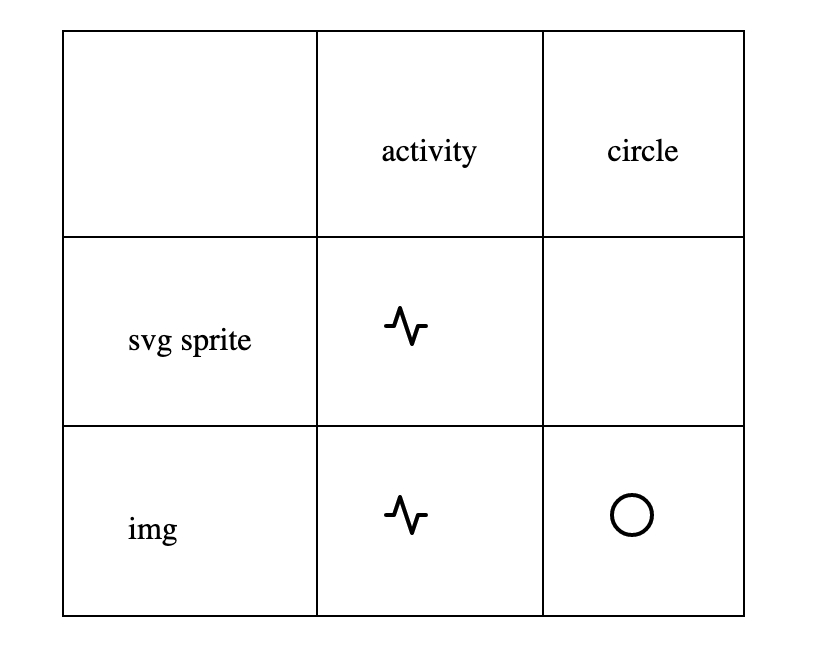
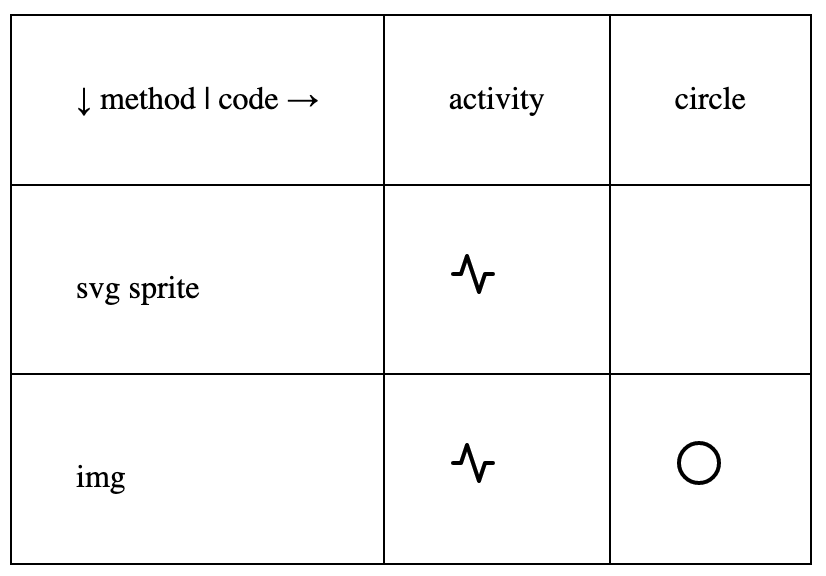
screenshot for comparison and system information

diff --git a/index.html b/index.html
@@ -25,7 +25,7 @@
 <body>
 	<table>
 		<tr>
-			<td></td>
+			<td>↓ method | code →</td>
 			<td>activity</td>
 			<td>circle</td>
 		</tr>

diff --git a/README.md b/README.md
@@ -2,4 +2,10 @@
 
 Firefox doesn't display circle shape from a svg sprite in combination with [the-new-css-reset](https://github.com/elad2412/the-new-css-reset).
 
-![Screenshot](screenshot-ff.png)
+Screenshot Firefox 93.0 on macOS 10.15.7
+
+![A table with an empty cell where a circle should be](screenshot-ff.png)
+
+Screenshot Safari 15.0 on macOS 10.15.7
+
+![A table with all 4 shapes renderd correctly](screenshot-safari.png)
